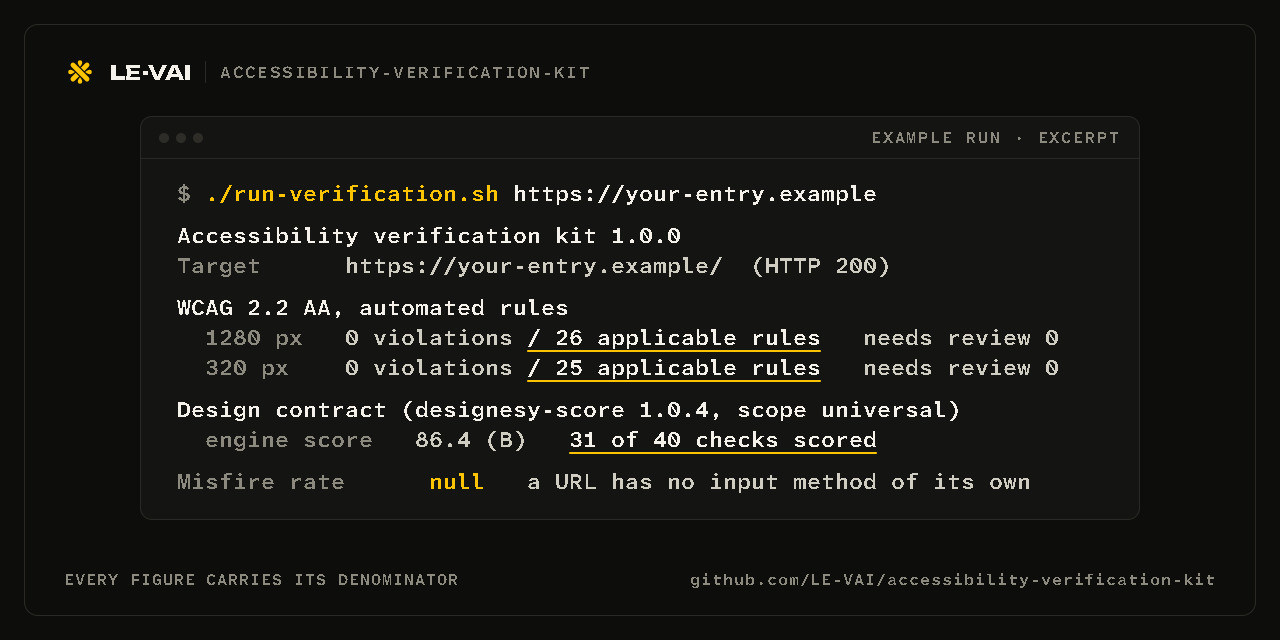
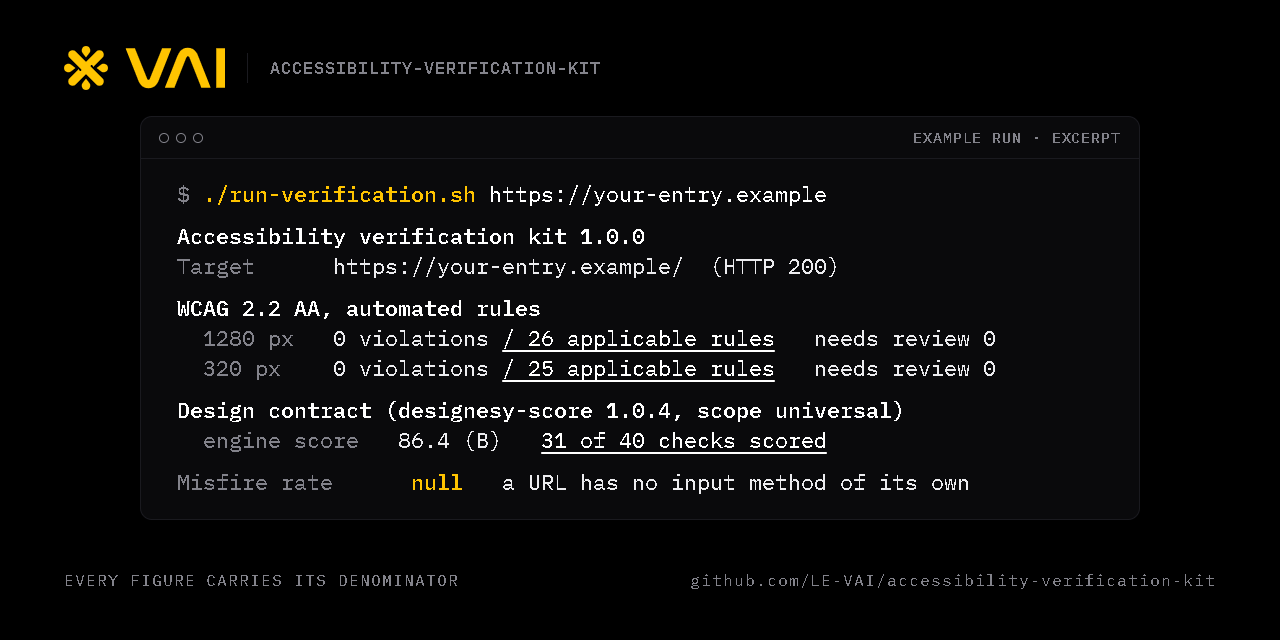
Hero loop and social card in VAI identity v2: black ground, Inter and IBM Plex Mono, the v2 lockup, yellow only on the signal (seam re-proven)

diff --git a/README.md b/README.md
@@ -4,7 +4,7 @@
 <p align="center">
   <picture>
     <source media="(prefers-reduced-motion: reduce)" srcset="docs/media/hero-poster.png">
-    <img src="docs/media/hero-loop.webp" width="800" alt="A terminal panel shows an example run of the verification kit against a placeholder site. It prints the kit version and target, a WCAG 2.2 AA result of 0 violations at 1280 px and at 320 px, and a design-contract score. Yellow underlines draw beneath each denominator: 26 and 25 applicable rules, and 31 of 40 checks scored. Last, the misfire-rate slot prints null in yellow and its reason types out: a URL has no input method of its own.">
+    <img src="docs/media/hero-loop.webp" width="800" alt="A terminal panel shows an example run of the verification kit against a placeholder site. It prints the kit version and target, a WCAG 2.2 AA result of 0 violations at 1280 px and at 320 px, and a design-contract score. White underlines draw beneath each denominator: 26 and 25 applicable rules, and 31 of 40 checks scored. Last, the misfire-rate slot prints null in yellow and its reason types out: a URL has no input method of its own.">
   </picture>
 </p>
 <p align="center"><sub>A 5-second loop. It plays once and rests, and shows a still frame if you prefer reduced motion. <a href="https://le-vai.github.io/LE-VAI/loops/#accessibility-verification-kit">Watch it on repeat</a>.</sub></p>
